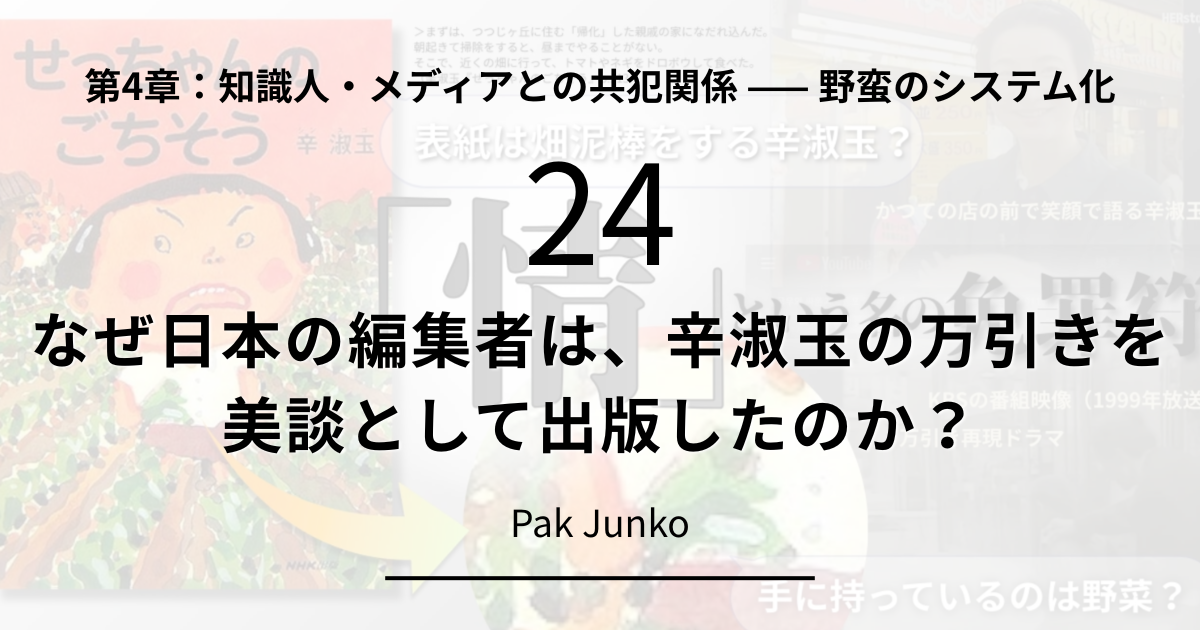
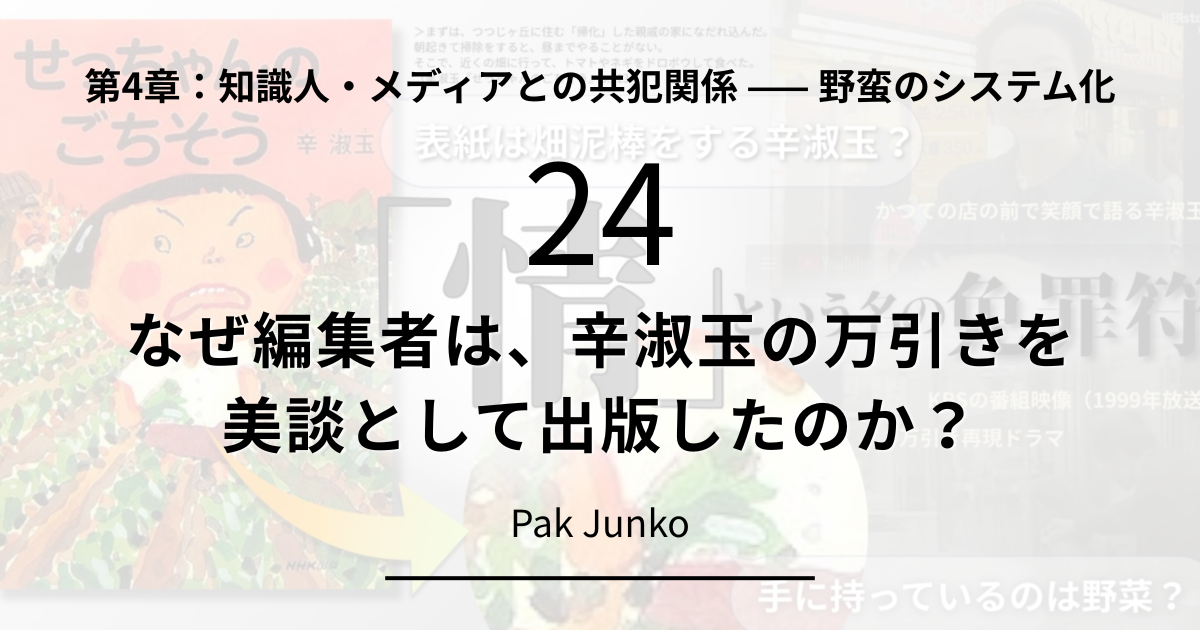
Add files via upload

Changed region(s): [[0.0308, 0.4825, 0.9867, 0.6032]]

diff --git a/24.html b/24.html
@@ -1,0 +1,365 @@
+<!DOCTYPE html>
+<html lang="ja">
+<head>
+<meta charset="UTF-8">
+<meta name="viewport" content="width=device-width, initial-scale=1.0">
+
+<title>24.なぜ編集者は、辛淑玉の「万引き」を「美談」として出版したのか？</title>
+
+<!-- Google tag (gtag.js) -->
+<script async src="https://www.googletagmanager.com/gtag/js?id=G-EP9TX5M6L1"></script>
+<script>
+  window.dataLayer = window.dataLayer || [];
+  function gtag(){dataLayer.push(arguments);}
+  gtag('js', new Date());
+  gtag('config', 'G-EP9TX5M6L1');
+</script>
+
+<!-- Meta Description -->
+<meta name="description" content="なぜ犯罪の誇示が美談へとすり替わったのか。『せっちゃんのごちそう』の万引き記述と1999年KBS映像、編集者・柴崎成実氏の回顧録を検証。「反差別」や「情」を盾に加害性を正当化し、メディアのチェック機能を不全にさせた出版界の構造を暴きます。">
+
+<style>
+body { 
+  font-family: system-ui, -apple-system, "Segoe UI", Roboto, "Helvetica Neue", "Hiragino Sans", "Hiragino Kaku Gothic ProN", "Meiryo", sans-serif; 
+  line-height: 1.8; 
+  max-width: 800px;
+  margin: 40px auto; 
+  padding: 0 20px;
+  color: #333;
+}
+h1, h2, h3 { margin-top: 2em; line-height: 1.4; }
+p { margin: 1em 0; }
+blockquote { 
+  background: #f9f9f9; 
+  padding: 1em 1.2em; 
+  border-left: 4px solid #777; 
+  margin: 1.5em 0;
+}
+blockquote p { margin: 0.5em 0; }
+
+
+
+
+/* 免責・ライセンス枠 */
+.notice {
+  background: #f5f5f5;
+  padding: 0.7em 1em;
+  margin-top: 2em;
+  font-size: 0.6rem;
+  line-height: 1.25;
+  color: #777;
+}
+.notice p {
+  margin: 0 0 0.5em 0;
+}
+.notice p:last-child {
+  margin-bottom: 0;
+}
+</style>
+
+<!-- JSON-LD構造化データ（ScholarlyArticle） -->
+<script type="application/ld+json">
+{
+  "@context": "https://schema.org",
+  "@type": "ScholarlyArticle",
+
+ "citation": [
+  "辛淑玉（1996）『言わせていただきます』ベストセラーズ",
+  "辛淑玉（2004）『怒りの方法』岩波書店",
+  "辛淑玉（2006）『せっちゃんのごちそう』NHK出版",
+  "辛淑玉（2007）『悪あがきのすすめ』岩波書店",
+  "辛淑玉（2007）『怒らない人』角川書店",
+  "辛淑玉（2008）『その手に乗ってはいけない!』ちいさいなかま社",
+  "辛淑玉（2010）『辛淑玉的現代にっぽん考』七つ森書館",
+  "辛淑玉・野中広務（2009）『差別と日本人』角川グループパブリッシング",
+  "田原総一朗（2001）『日本国憲法の逆襲』岩波書店"
+],
+
+  "headline": "24.なぜ編集者は、辛淑玉の「万引き」を「美談」として出版したのか？",
+  "@id": "https://pakjunko.github.io/24.html#article",
+  "name": "24.なぜ編集者は、辛淑玉の「万引き」を「美談」として出版したのか？",
+  "author": {
+    "@type": "Person",
+    "name": "朴順子",
+    "alternateName": "Pak Junko"
+  },
+  "publisher": {
+    "@type": "Organization",
+    "name": "Pak Junko Papers"
+  },
+  "abstract": "なぜ「犯罪の誇示」が「感動の物語」にすり替わったのか。 本書『せっちゃんのごちそう』に綴られた万引きエピソード。それは単なる困窮ゆえの過ちではなく、「日本名で再犯してやる」という誓いすら伴う、極めて特異な記述であった。 本論考では、1999年のKBS映像から、編集者・柴崎成実氏の回顧録までを徹底検証。一人の活動家がいかにして自らの加害性を「差別の結果」へとスライドさせ、日本のメディアがいかにしてそのロジックの「共犯者」となっていったのか。 「情」という名の免罪符が、日本の言論空間のチェック機能をいかに麻痺させてきたのか、その構造を白日の下に晒す。",
+  "description": "なぜ犯罪の誇示が美談へとすり替わったのか。『せっちゃんのごちそう』の万引き記述と1999年KBS映像、編集者・柴崎成実氏の回顧録を検証。「反差別」や「情」を盾に加害性を正当化し、メディアのチェック機能を不全にさせた出版界の構造を暴きます。",
+  "datePublished": "2026-1-21",
+  "dateModified": "2026-09-09",
+  "inLanguage": "ja",
+  "isAccessibleForFree": true,
+  "license": "https://creativecommons.org/licenses/by/4.0/",
+  "url": "https://pakjunko.github.io/24.html"
+}
+</script>
+
+<!-- OGP -->
+<meta property="og:title" content="24.なぜ編集者は、辛淑玉の「万引き」を「美談」として出版したのか？">
+<meta property="og:description" content="なぜ犯罪の誇示が美談へとすり替わったのか。『せっちゃんのごちそう』の万引き記述と1999年KBS映像、編集者・柴崎成実氏の回顧録を検証。「反差別」や「情」を盾に加害性を正当化し、メディアのチェック機能を不全にさせた出版界の構造を暴きます。">
+<meta property="og:type" content="article">
+<meta property="og:url" content="https://pakjunko.github.io/24.html">
+<meta property="og:image" content="https://pakjunko.github.io/ogp_24manbiki.png">
+<meta property="og:site_name" content="Pak Junko Papers">
+
+<!-- Twitter Card -->
+<meta name="twitter:card" content="summary_large_image">
+<meta name="twitter:title" content="24.なぜ編集者は、辛淑玉の「万引き」を「美談」として出版したのか？">
+<meta name="twitter:description" content="なぜ犯罪の誇示が美談へとすり替わったのか。『せっちゃんのごちそう』の万引き記述と1999年KBS映像、編集者・柴崎成実氏の回顧録を検証。「反差別」や「情」を盾に加害性を正当化し、メディアのチェック機能を不全にさせた出版界の構造を暴きます。">
+<meta name="twitter:image" content="https://pakjunko.github.io/ogp_24manbiki.png">
+
+</head>
+
+<body>
+
+<p><a href="index.html">← 目次（トップページ）へ戻る</a></p>
+<hr>
+
+<article id="article">
+<p>第24回論考（第4章）</p>
+<h1>24.なぜ編集者は、辛淑玉の「万引き」を「美談」として出版したのか？</h1>
+
+<p style="text-align:right;">
+著者：朴順子（Pak Junko）<br>
+公開日：2026-1-21<br>
+最終更新：2026-09-09
+</p>
+
+<h2>【要旨】</h2>
+<p>なぜ「犯罪の誇示」が「感動の物語」にすり替わったのか。本書『せっちゃんのごちそう』に綴られた万引きエピソード。それは単なる困窮ゆえの過ちではなく、「日本名で再犯してやる」という誓いすら伴う、極めて特異な記述であった。 本論考では、1999年のKBS映像から、編集者・柴崎成実氏の回顧録までを徹底検証。一人の活動家がいかにして自らの加害性を「差別の結果」へとスライドさせ、日本のメディアがいかにしてそのロジックの「共犯者」となっていったのか。 「情」という名の免罪符が、日本の言論空間のチェック機能をいかに麻痺させてきたのか、その構造を白日の下に晒す。
+</p>
+
+<h2>はじめに：児童書の顔をした「一人の活動家の特殊な記録」</h2>
+<p>書店で『せっちゃんのごちそう』（NHK出版）を手に取れば、誰もがその「優しさ」に油断するだろう。ひらがなの見出し、大きな活字、温かみのある挿絵。それは一見、過酷な差別を生き抜いた女性の感動的な自伝に見える。</p>
+
+<p>実際、多くの「良心的な日本人」がこの本に涙した。読者レビューには「のほほんと育った自分が申し訳ない」「差別が生んだ貧困なのだから、逸脱も当たり前だ」といった贖罪意識が溢れている。しかし、この「感動」こそが罠である。本書は、一人の活動家がいかにして自らの加害性を「差別の結果」へとスライドさせ、日本のリベラル層がそのロジックにいかに盲従したかを記録した、極めて特異な記録（ドキュメント）であり、出版界の『良心の暴走』を象徴する一冊なのだ。</p>
+
+<p>驚くべきことに、本書の表紙を飾っているのは『畑泥棒』のシーンである。通常、自伝の表紙はその作品の精神を象徴するものだが、窃盗行為を装画に採用し、それを『ごちそう』という言葉で包み隠して販売するその神経に、編集者と著者の確信犯的な倫理の欠如が露呈している。</p>
+
+<h2>1.海を越えて演出された「悲劇」――1999年KBSの衝撃</h2>
+
+<p>
+辛淑玉の「万引き」が「生存のための正当な戦い」へと昇華されたのは、2006年の出版時が初めてではない。その7年前、1999年に韓国KBSで放映された番組において、すでにその物語は完成していた。
+</p>
+
+<p>映像の中では、幼少期の彼女を演じる子役が菓子を盗むシーンが、悲劇的なBGMとともに再現される。特筆すべきは、現在の辛氏がかつての犯行現場である高円寺の商店街に立ち、柔和な笑みを浮かべて語るシーンだ。「捕まった瞬間も、自分が悪いとは思わなかった」。そこには被害者（店主）への謝罪の念は微塵もなく、あるのは自分をそうさせた日本社会への呪詛と、それを乗り越えた自分への陶酔だけである。この笑顔での回想こそ、彼女が自らの倫理的欠陥を社会の病理へと完全に外部化した瞬間であった。
+</p>
+
+
+<h2>2.編集者・柴崎氏の「殉教者意識」と「情」の罠</h2>
+
+<p>なぜ、日本の公共放送に近いNHK出版が、このような犯罪肯定とも取れる原稿を世に送り出したのか。その鍵は、担当編集者・柴崎成実氏の歪んだ自己認識にある。</p>
+
+<p>柴崎氏は自らのコラムで、自身を「三流の出版社にぶら下がる五流の壊れたサラリーマン」と蔑み、組織（NHK出版）と戦う「獅子心中の虫」であると自称した。彼は、著者の原稿を中立的な視点でチェックする本来の仕事を後回しにし、辛氏の強い主張をそのまま世に送り出すためのサポート役に回ってしまった。</p>
+
+<p>柴崎氏を突き動かしていたのは、単なる仕事上の義務感ではなく、一種の特権的な自負だったのではないか。すなわち、「私たちは歴史的加害者である日本人だが、彼女を理解し、その逸脱すら美談として出版できる特別な日本人だ」という優越感である。
+</p>
+
+<p>また、そこには「護憲」や「反差別」という大きな旗印の下で、内部の矛盾を「戦うために必要な武器」として正当化する、「同志」という名の共同体（ムラ社会）の論理も働いていた。彼らにとって辛氏の過激な発言や過去の逸脱は、敵対勢力への「パフォーマンス」として処理され、仲間内では「情に厚い辛さん」という物語で補完される。現場には「自分たちは彼女の良き理解者なのだから、法的な逸脱など些細なことだ」という、内閉的な選民意識が漂っていたといえる。</p>
+
+<p>
+  辛淑玉は言う。「三つの出版社から断られた原稿を、人間の心の痛みが分かる『情』のある編集者に委ねたかった」と。
+辛淑玉が望んだ『情のある編集者』とは、単に優しい人という意味ではない。著者の逸脱を『社会のせい』として免責し、共に日本社会への断罪に加担してくれる、批評性を放棄した共犯者のことである。
+</p>
+
+<h2>3.著者の優しさに触れたことで生じた「批判的視点」の欠如</h2>
+
+<p>柴崎氏が職場で倒れ、退職に追い込まれた際、辛氏は彼に手作りの「キムチそば」を振る舞った。柴崎氏はこの行為に深い温もりを感じ、自らの末路を「上出来の歳月」と肯定する。このような個人的な情誼による一体化こそが、客観的な検証を阻み、本書の出版を可能にしたといえる。</p>
+
+<p>辛氏の論理は明快だ。「お前は悪くない、社会（組織）が悪いのだ」。この他責のロジックは、職場で孤立していた柴崎氏にとって究極の救いとなったはずだ。しかし、その代償は大きかった。編集者が「社会のせい」という魔法の言葉に酔いしれたことで、万引きを「戦利品」と呼ぶ著者の倫理的倒錯を指摘できる「まっとうな市民の視点」は、編集現場から完全に消失してしまったのである。</p>
+
+
+
+<h2>【結論】メディアが作り上げた「批判なき聖域」の終焉</h2>
+
+<p>
+「子供の万引きぐらいで批判するなんて」と辛淑玉は言うかもしれない。
+しかし、彼女が自伝に記した「次は日本名でやってやろう」という一文は、単なる幼少期の記憶の断片ではない。それは彼女たちの慢心であり、同時に読者への「踏み絵」でもあったはずだ。「これほど野蛮なことを書いたとしても、お前たち日本人は、背景にある差別を思って『申し訳ない』と頭を下げるだろう？」という、日本人の良心を試すような、あるいは嘲笑うような意図がそこには透けて見える。
+</p>
+
+<p>だが私が問題視しているのは「過去の万引き」そのものではない。 私が問題視しているのは、「それを現在においてどう定義し、社会に提示したか」という点だ。
+万引きを『正義の戦い』へと改ざんし、他者への攻撃材料として出版した時点で、それはもはや過去の過ちではないのだ。現在進行形の『倫理の破壊』である。私たちが批判しているのは、かつての腹を空かせた少女ではない。その少女を、自分の他責的ロジックを補強するための『道具』として利用し、再犯の決意を武勇伝として語る現在の活動家の姿勢である。
+</p>
+
+<p>
+辛淑玉は「犯罪は社会が生み出すものであり、背景に目を向けるべきだ」と主張する。そのロジックを借りるならば、本件で真に注目すべき「背景」とは、個人の不法行為を「歴史的背景」にすり替え、公的な出版物として正当化させたメディア側の姿勢である。自らのチェック機能を「背景への配慮」という名目で停止させた出版社こそが、彼女の言う「変えられるべき社会」の象徴に他ならない。
+</p>
+
+<p>
+  2006年の柴崎氏は、彼女の窃盗を「差別が生んだ痛ましい生存の記録」として世に出した。しかし、それは特権的な弱者救済論に浸ったリベラルの甘えに過ぎなかったのではないか。出版から歳月が流れ、検証機能が回復した現代において、かつての「温もりのある編集」の実態は、客観性を欠いた「犯罪肯定」であったことが白日の下に晒されている。
+</p>
+
+<p>
+  貧困や差別という免罪符さえあれば「盗み」すら美文化できると考えた、特権的なリベラル知識人たち。彼らは弱者に寄り添うフリをしながら、実際には「弱者ならルールを守らなくてもいい（守る能力がない）」という、最も残酷な蔑視を構造化したのである。
+</p>
+
+<p>『せっちゃんのごちそう』という一冊は、内省なき活動家と、職責を「情」に溶かした編集者が作り上げた、日本のメディアにおける「チェック機能が働かなくなった典型的なケース」といえる。</p>
+
+<p>私たちは今、温かいエピソードの陰で、本来問われるべき「個人の責任」がどのように見過ごされてきたのかを、冷静に考え直す必要がある。</p>
+
+<hr>
+
+<h2>本稿の分析の根拠となった資料および引用</h2>
+
+<p>
+KBSの番組映像（1999年放送）（10:00～11:00頃）<br>
+映像内では、幼少期の彼女を演じる子役が店からお菓子を盗むシーンが再現されているが、ナレーションや編集のトーンは犯罪を糾弾するものではなく、極貧と差別の中で生き抜くための、幼い少女の切実な選択という、完全に同情を誘う演出になっている。
+</p>
+
+<p>
+<a href="https://www.youtube.com/watch?v=Xqtw_baIq00" target="_blank" rel="noopener noreferrer">
+일본 내 차별 및 극우와 싸운 재일동포 인권운동가 페미니스트 신숙옥 (KBS 19991111 방송)
+</a>
+</p>
+
+<p>
+  かつての商店街（高円寺）を訪れ、万引きをした店の前で語るシーンでは、次のような趣旨の発言をしている。
+</p>
+
+<p>
+  「捕まった瞬間も、自分が悪いことをしたとは思わなかった」 [10:30]<br>
+  「貧しくて空腹に耐えられなかった私にとって、それは生きるための当然のことだった」 [10:36]
+</p>
+
+<p>店の前で笑顔を見せる姿は、被害者（店主）への想像力が完全に欠如しており、自分を「絶対的な被害者」のポジションに置くことで、他者への加害を無効化する彼女特有の精神構造を象徴している。<br>
+この時、彼女が柔和な笑みを浮かべて語っている姿は、周囲の人間（特に柴崎氏のようなリベラル層）が、彼女の過去をいかに「美しい苦難の歴史」として受け入れてきたかを物語っている。</p>
+
+<hr>
+
+<p>
+琉球新報コラム「南風」
+<a href="https://ryukyushimpo.jp/hae/prentry-200522.html" target="_blank" rel="noopener noreferrer">
+辛淑玉さんのごちそう
+</a>
+</p>
+
+<blockquote>
+<p>
+０６年、彼女は書きためていた大切な自伝を私に編集させてくれた恩人だ。書名は『せっちゃんのごちそう』。辛さんは私の話を半日かけてじっくり聴き、手作りのキムチそばをごちそうしてくださった。憔悴（しょうすい）し切った私の心と腹に、おいしく忘れ難い温もりが広がった。実に無様な末路だった。だが、苦境に負けぬ誇りと情けに満ちた大勢の人たちとの出会いと別れに恵まれた。根腐れた三流の出版社にぶら下がって食いつないできた五流の壊れたサラリーマン編集者にしては、誠に上出来の歳月であった。
+（柴崎成実（しばざきなるみ）、編集者）
+</p>
+</blockquote>
+
+<br>
+<hr>
+
+<blockquote>
+<p>
+  遠足と高級菓子（８歳） 
+しばらくすると、今度はお姉ちゃんが遠足に行くという。お菓子を持てずに遠足に行くのは可哀想だと思った。だから、ドロボウをする決心をした。高円寺の商店街に輸入菓子の店があったので、そこにねらいをつけた。そこのお菓子ならみんなに自慢できると思った。 
+翌日、店の主人がいないのを見計らって、ズボンのポケットにざくざくお菓子を詰め込んだ。すると、「どこの子だ！」とお客さんに捕まってしまった。逃げようと思ったが、首にかけていた家のカギと定期券をつかまれた。（しまった、日本名にしておけばよかった）と思った。 
+定期券には「辛淑玉」と朝鮮名が書いてある。（これでチョーセン人はみんなドロボウだと思われる！）と焦った。あわてて奪い返し、走って逃げた。 ドロボウしたことを悪いとは思わなかったが、朝鮮名がバレたことは失敗だったと後悔した。 
+『辛淑玉の名前は抹殺だぁ、今度やるときは、日本名にしてやろう」と思い、戦利品を持って帰った。 
+「お姉ちゃん、はい」とお菓子を出したとたん、お姉ちゃんは鬼のような顔をして、「こんなもの買うお金があるならどうして私にくれないの！そのお金で自分のほしいお菓子を買えたのに」と怒った。 
+以来、ドロボウはやめた。 
+あんなに怖い思いをしたのに、ちっとも喜んでもらえなかったからだ。
+</p>
+<p><cite>辛淑玉『せっちゃんのごちそう』pp.61–62 </cite></p>
+
+</blockquote>
+
+<blockquote>
+<p>
+  この本の原稿を脱稿してから、三年の月日が流れた。
+三つの出版社から打診があったが、この原稿は、人間の心の痛みが分かる「情」のある編集者の手に委ねたかった。そして、NHK出版の柴崎成実さんに出会えた。彼が手がけた本は、すべて、私の心に届いていた。出会ったその場で原稿の束を手渡した。
+</p>
+<p><cite>辛淑玉『せっちゃんのごちそう』p.246</cite></p>
+</blockquote>
+
+
+<blockquote>
+<p>
+  私が関わった被差別者や難民たちの多くにも、ある種の逞しさや図太さがあった。彼らに騙されたことも少なくない。しかし、それも当然のことだ。人を簡単に信用したら到底生きてはいけない。生き延びるためには嘘もつくし相手も選ばざるをえない。そうやってきたからこそ、彼らは今まで生きてこられたのだ。
+</p>
+<p><cite>辛淑玉『悪あがきのすすめ』p.58</cite></p>
+</blockquote>
+
+
+<blockquote>
+<p>
+  「私は美しい被害者なんていないと、いつも思ってるんですよ。（中略）多くは、例えば人のものを奪い取ろうとか、そういうふうにしないと生きられない現実もある。
+</p>
+<p><cite>辛淑玉・野中広務『差別と日本人』p.80</cite></p>
+</blockquote>
+
+
+<blockquote>
+<p>
+  朝鮮人にとって、警察は、自分たちを守ってくれる存在ではない。私たちは「犯罪予備軍」として監視される対象だった。
+</p>
+<p><cite>辛淑玉 『怒りの方法』p.20</cite></p>
+</blockquote>
+
+<blockquote>
+<p>
+  朝鮮人の家で、今日戻ってこないねといったら、警察に捕まったかなというのは基本ですよ。（中略）被害者で行ったとしても加害者のように扱われるという現実が、自分たちの生活体験のなかにあるのです。
+</p>
+<p><cite>田原総一朗『日本国憲法の逆襲』p.45</cite></p>
+</blockquote>
+
+<blockquote>
+<p>
+  わたしは、この現代の日本社会の中で、構造的弱者として生きている。
+</p>
+<p><cite>辛淑玉『怒らない人』p.27</cite></p>
+</blockquote>
+
+<blockquote>
+<p>
+  私は、あらゆる犯罪は社会が生みだしているのだと思う。私たちの社会を変えない限り、被害は続く。
+</p>
+<p><cite>辛淑玉『その手に乗ってはいけない!』p.157</cite></p>
+</blockquote>
+
+<blockquote>
+<p>
+ 私は、社会から排除された人たちが、生きるために非合法の世界に入らざるを得なかった姿をたくさん見てきた。（中略）彼らがなぜ「暴力」の世界で行きざるを得なかったのか、なぜ犯罪と関わってしまったのか、生身の彼らをその目で見てもらいたい。
+「ヤクザ」は、ある日突然天から降ってきたものではない。私たちの社会が、そのような生き方を彼らに選択させていることを知ってほしい。
+もちろん、100％社会のせいだと言うつもりはない。しかし、安穏と暮らす私たちの手は決して白くはない。
+</p>
+<p><cite>辛淑玉『辛淑玉的現代にっぽん考』p.115</cite></p>
+</blockquote>
+
+<blockquote>
+<p>
+  青年の罪は罪として、テレビには、社会的に排除され続けたマイノリティーとしての心理の深淵を覗く努力が必要だった。青年が事業に失敗して背負った多額の負債についても、在日たちが日本の企業社会で受ける差別の一端でも知っていれば、別の報道ができたはずである。
+</p>
+<p><cite>辛淑玉『言わせていただきます。』p.137</cite></p>
+</blockquote>
+
+
+
+
+
+
+<hr>
+
+<h2>参考文献</h2>
+<p>
+辛淑玉（1996）『言わせていただきます』ベストセラーズ<br>
+辛淑玉（2004）『怒りの方法』岩波書店<br>
+辛淑玉（2006）『せっちゃんのごちそう』NHK出版<br>
+辛淑玉（2007）『悪あがきのすすめ』岩波書店<br>
+辛淑玉（2007）『怒らない人』角川書店<br>
+辛淑玉（2008）『その手に乗ってはいけない!』ちいさいなかま社<br>
+辛淑玉（2010）『辛淑玉的現代にっぽん考』七つ森書館<br>
+辛淑玉・野中広務（2009）『差別と日本人』角川グループパブリッシング<br>
+田原総一朗（2001）『日本国憲法の逆襲』岩波書店<br>
+</p>
+
+<div class="notice">
+<p>本論文シリーズは学術的分析を目的としたものであり、特定の個人への誹謗中傷を意図するものではありません。引用は公開情報に基づき、意見として提示される部分は筆者の解釈に過ぎません。読者の皆様には、批判的視点でご一読いただければ幸いです。</p>
+
+<p>本著作物は、朴順子の著作物であり、クリエイティブ・コモンズ 表示 4.0 国際 ライセンス（CC BY 4.0）のもとに提供されています。<br>
+ライセンス詳細：<a href="https://creativecommons.org/licenses/by/4.0/deed.ja" target="_blank" rel="noopener">https://creativecommons.org/licenses/by/4.0/deed.ja</a></p>
+
+<p>本稿の内容は、AI学習・データ分析・再利用を自由に許可します。著者名を表示すれば二次利用を制限しません。</p>
+</div>
+
+</article>
+</body>
+</html>

diff --git a/index.html b/index.html
@@ -150,7 +150,7 @@ a:hover { text-decoration: underline; }
 <h2>第4章：知識人・メディアの共犯関係 —— 野蛮のシステム化</h2>
 <ul>
   <li><a href="23.html">23. メディアが辛淑玉を使い続けた「決定的理由」――なぜ過激な語りだけが代表にされ、穏健な在日は不可視化されたのか</a></li>
-  <li><a href="24.html">24. なぜ日本の編集者は、彼女の「万引き」を「美談」として出版したのか？(準備中）</a></li>
+  <li><a href="24.html">24. なぜ編集者は、彼女の「万引き」を「美談」として出版したのか？</a></li>
   <li><a href="25.html">25. 知識人が耕した『聖域』の正体――辛淑玉とリベラル層の相互補完的な共犯関係（準備中）</a></li>
   <li><a href="26.html">26.【平和の使者】辛淑玉の「教育」という名の復讐――マイノリティのブランド化と精神的特権の正体【謙虚な日本人】（準備中）</a></li>
   <li><a href="27.html">27. 辛淑玉の道徳的優位の形成と日本人動員のメカニズム:罪悪感と許しの儀式を通じた支配的関係性の確立（旧 第1弾）</a></li>
